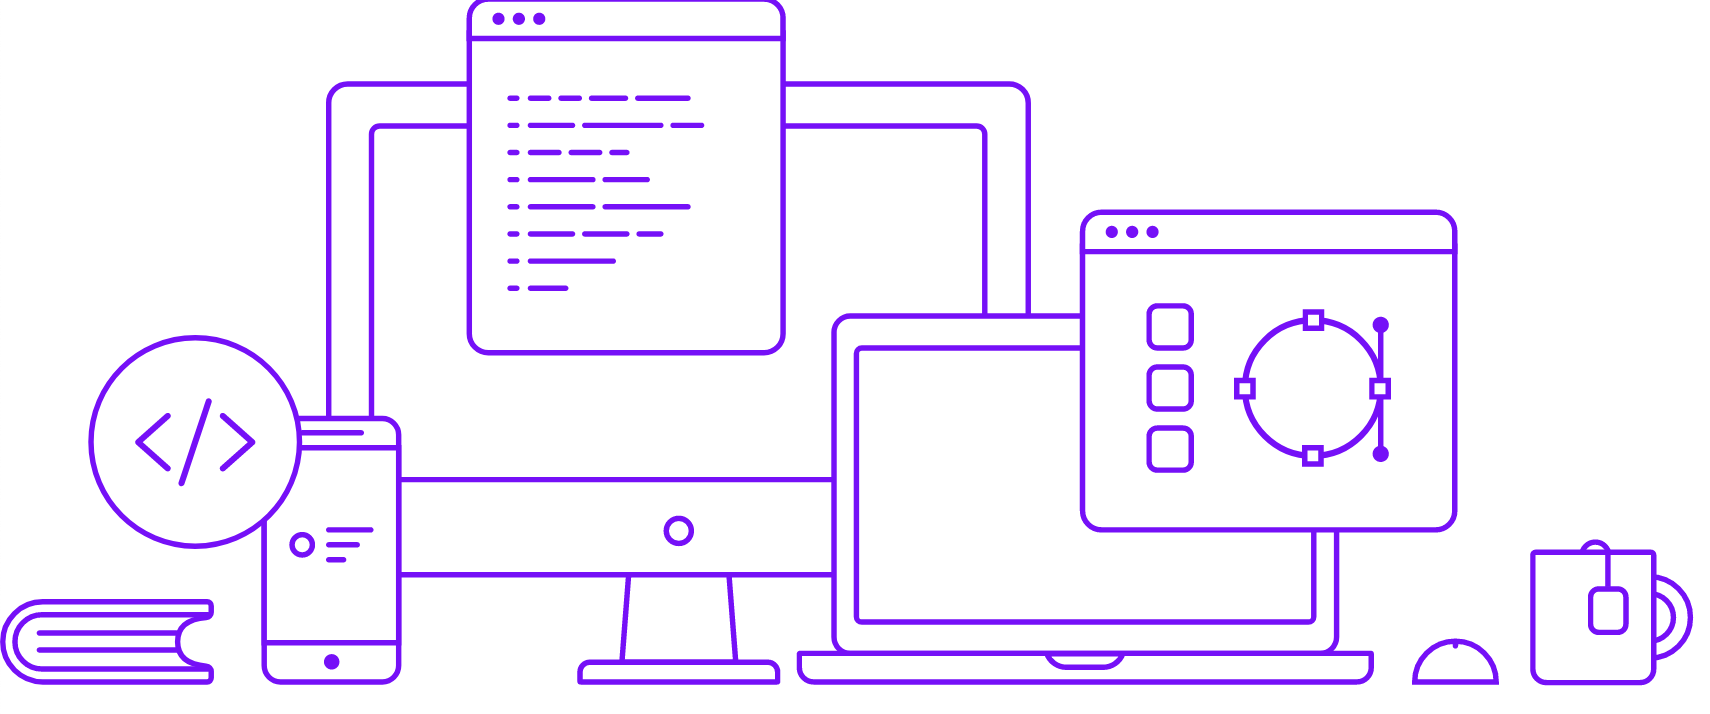
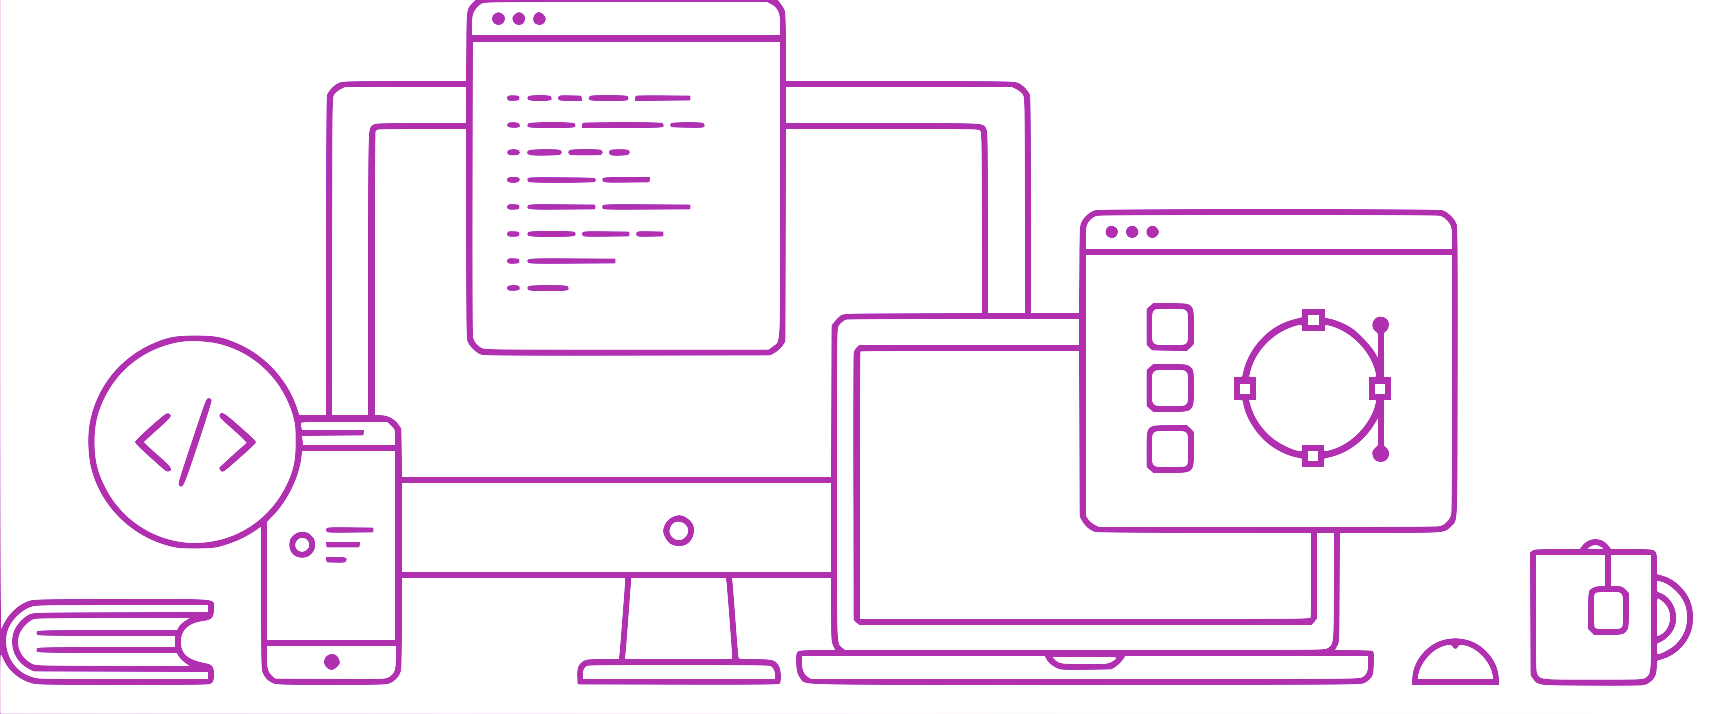
color update

diff --git a/style/main.css b/style/main.css
@@ -10,13 +10,13 @@
   height: 250px;
   border: 2px solid antiquewhite;
   border-radius: 100%;
-  border-color: #7510F7;
-  background-color: #7510F7;
+  border-color: #202040;
+  background-color: #202040;
 }
 
 
 #purple {
-  background-color: #7510F7;
+  background-color: #202040;
 }
 
 #purple h2 {
@@ -70,7 +70,7 @@ div .column {
 }
 
 .purple {
-  color: #7510F7;
+  color: #202040;
 }
 
 .column {
@@ -111,12 +111,12 @@ div .column-1 {
 }
 
 footer {
-  background-color: #7510F7;
+  background-color: #b030b0;
   color: white;
 }
 
 #before-footer {
-  background-color: #7510F7;
+  background-color: #b030b0;
   color: white;
   ;
 }
@@ -126,8 +126,8 @@ footer {
   height: 150px;
   border: 2px solid antiquewhite;
   border-radius: 100%;
-  border-color: #7510F7;
-  background-color: #7510F7;
+  border-color: #b030b0;
+  background-color: #b030b0;
 }
 
 .reference p {
@@ -287,7 +287,7 @@ max-width: 1200px;
   text-align: left;
 }
 a {
-  color: #141c3a;
+  color: #b030b0;;
   font-size: 14px;
 }
 

diff --git a/blog.html b/blog.html
@@ -278,9 +278,8 @@
   <!-- FOOTER -->
   <footer class="section is-primary is-small has-text-centered">
     <div class="container is-narrow">
-      <img id="logo-footer" src="img/uv-logo-white.png" alt="Ustin Vaskin | Designer, Software Engineer">
-      <p>
-        Ustin Vaskin | Designer, Software Engineer &amp; Project Manager
+
+      Ustin Vaskin | Designer, Software Engineer &amp; Project Manager
 
       </p>
       <div class="columns is-centered">

diff --git a/blog-3-Week2atGA.html b/blog-3-Week2atGA.html
@@ -423,8 +423,8 @@
               <!-- FOOTER -->
               <footer class=" section is-primary is-small has-text-centered ">
                 <div class=" container is-narrow ">
-                  <img id=" logo-footer " src=" img/uv-logo-white.png " alt=" Ustin Vaskin | Designer, Software
-              Engineer ">
+                 
+
                   <p>
                     Ustin Vaskin | Designer, Software Engineer &amp; Project Manager
 

diff --git a/blog-6-12rules.html b/blog-6-12rules.html
@@ -687,8 +687,7 @@
                 <!-- FOOTER -->
                 <footer class=" section is-primary is-small has-text-centered ">
                   <div class=" container is-narrow ">
-                    <img id=" logo-footer " src=" img/uv-logo-white.png " alt=" Ustin Vaskin | Designer, Software
-              Engineer ">
+
                     <p>
                       Ustin Vaskin | Designer, Software Engineer &amp; Project Manager
 

diff --git a/blog-4-README-Pj1-SEI-44.html b/blog-4-README-Pj1-SEI-44.html
@@ -221,8 +221,7 @@
               <!-- FOOTER -->
               <footer class=" section is-primary is-small has-text-centered ">
                 <div class=" container is-narrow ">
-                  <img id=" logo-footer " src=" img/uv-logo-white.png " alt=" Ustin Vaskin | Designer, Software
-              Engineer ">
+
                   <p>
                     Ustin Vaskin | Designer, Software Engineer &amp; Project Manager
 

diff --git a/blog-5-React-intro-Api.html b/blog-5-React-intro-Api.html
@@ -180,8 +180,7 @@
               <!-- FOOTER -->
               <footer class=" section is-primary is-small has-text-centered ">
                 <div class=" container is-narrow ">
-                  <img id=" logo-footer " src=" img/uv-logo-white.png " alt=" Ustin Vaskin | Designer, Software
-              Engineer ">
+
                   <p>
                     Ustin Vaskin | Designer, Software Engineer &amp; Project Manager
 

diff --git a/blog-1.html b/blog-1.html
@@ -291,7 +291,7 @@
               <!-- FOOTER -->
               <footer class="section is-primary is-small has-text-centered">
                 <div class="container is-narrow">
-                  <img id="logo-footer" src="img/uv-logo-white.png" alt="Ustin Vaskin | Designer, Software Engineer">
+
                   <p>
                     Ustin Vaskin | Designer, Software Engineer &amp; Project Manager
 

diff --git a/blog-2-Css-frameworks.html b/blog-2-Css-frameworks.html
@@ -176,7 +176,7 @@
               <!-- FOOTER -->
               <footer class="section is-primary is-small has-text-centered">
                 <div class="container is-narrow">
-                  <img id="logo-footer" src="img/uv-logo-white.png" alt="Ustin Vaskin | Designer, Software Engineer">
+
                   <p>
                     Ustin Vaskin | Designer, Software Engineer &amp; Project Manager
 

diff --git a/index.html b/index.html
@@ -501,7 +501,7 @@
   <!-- FOOTER -->
   <footer class="section is-primary is-small has-text-centered">
     <div class="container is-narrow">
-      <img id="logo-footer" src="img/uv-logo-white.png" alt="Ustin Vaskin | Designer, Software Engineer">
+
       <p>
         Ustin Vaskin | Designer, Software Engineer &amp; Project Manager
 
